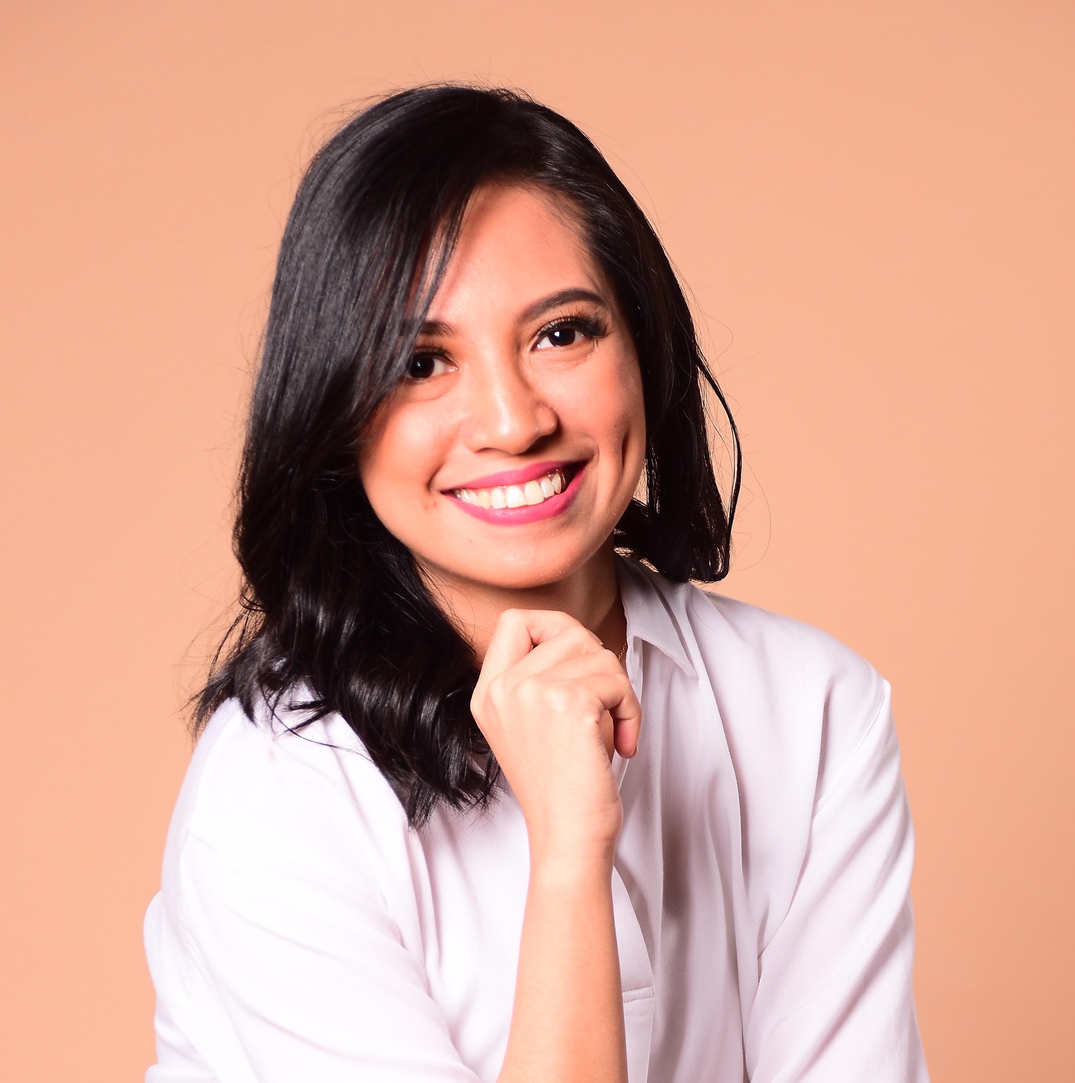
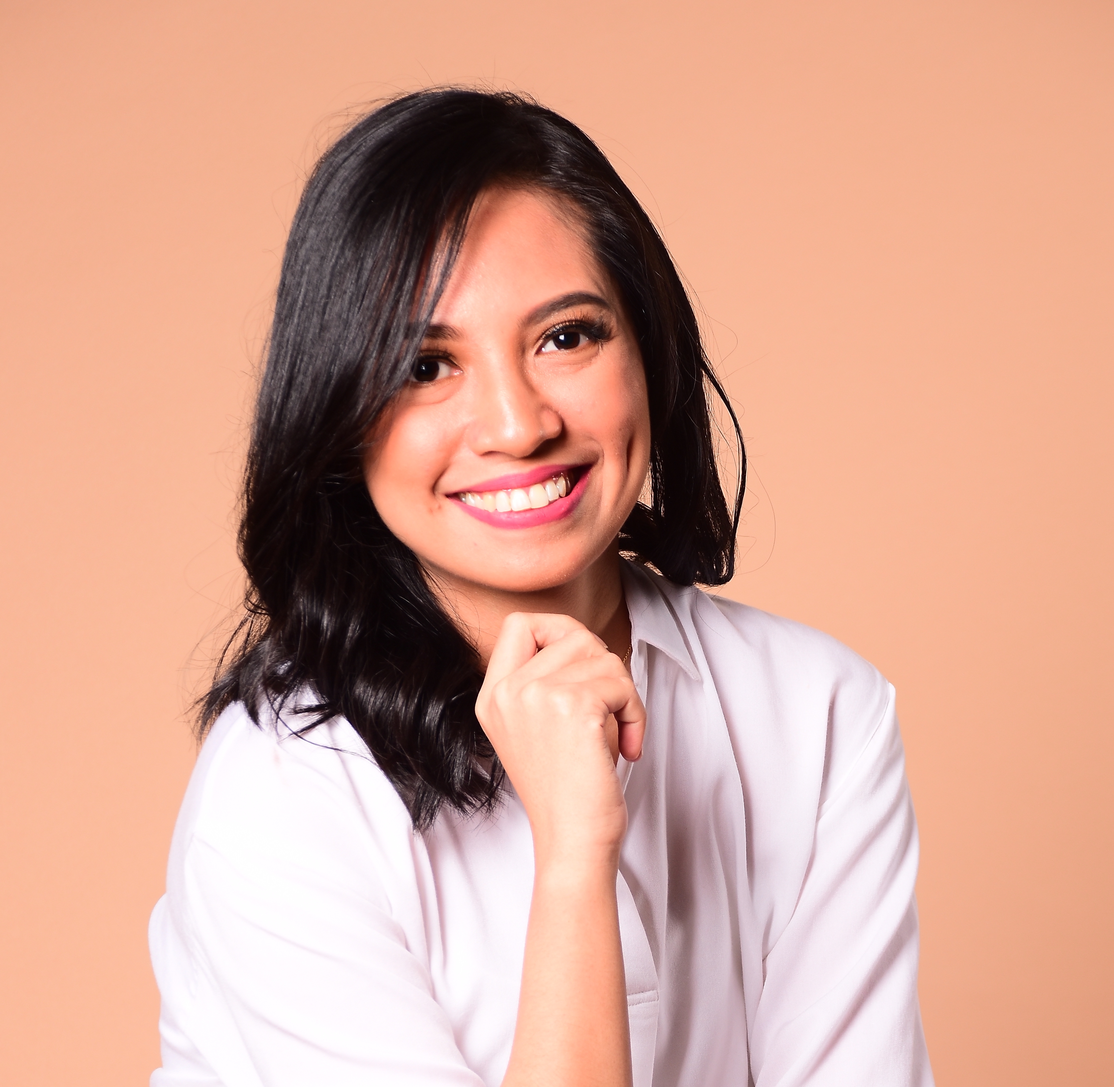
updated my image

Changed region(s): [[0.1549, 0.0621, 0.8672, 1.0]]

diff --git a/data/siteMetadata.js b/data/siteMetadata.js
@@ -9,9 +9,9 @@ const siteMetadata = {
   siteUrl: 'https://feye.vercel.app/',
   siteRepo: 'https://github.com/feyeandal/feye.website',
   siteLogo: '/static/images/logo.png',
-  image: '/static/images/feyeandal.jpg',
+  image: '/static/images/feyeandal.JPG',
   head: '/static/images/maps.png',
-  head_2nd: '/static/images/feyeandal.jpg',
+  head_2nd: '/static/images/feyeandal.JPG',
   head_3rd: '/static/images/NOAH.png',
   head_4th: '/static/images/osm.png',
   // socialBanner: '/static/images/twitter-card.png',

diff --git a/data/authors/default.md b/data/authors/default.md
@@ -1,6 +1,6 @@
 ---
 name: Feye Andal
-avatar: /static/images/feyeandal.jpg
+avatar: /static/images/feyeandal.JPG
 occupation: Project Manager; Geospatial Analyst
 company: UPRI-NOAH Center; By Implication, Inc.
 email: andalfeye@gmail.com
